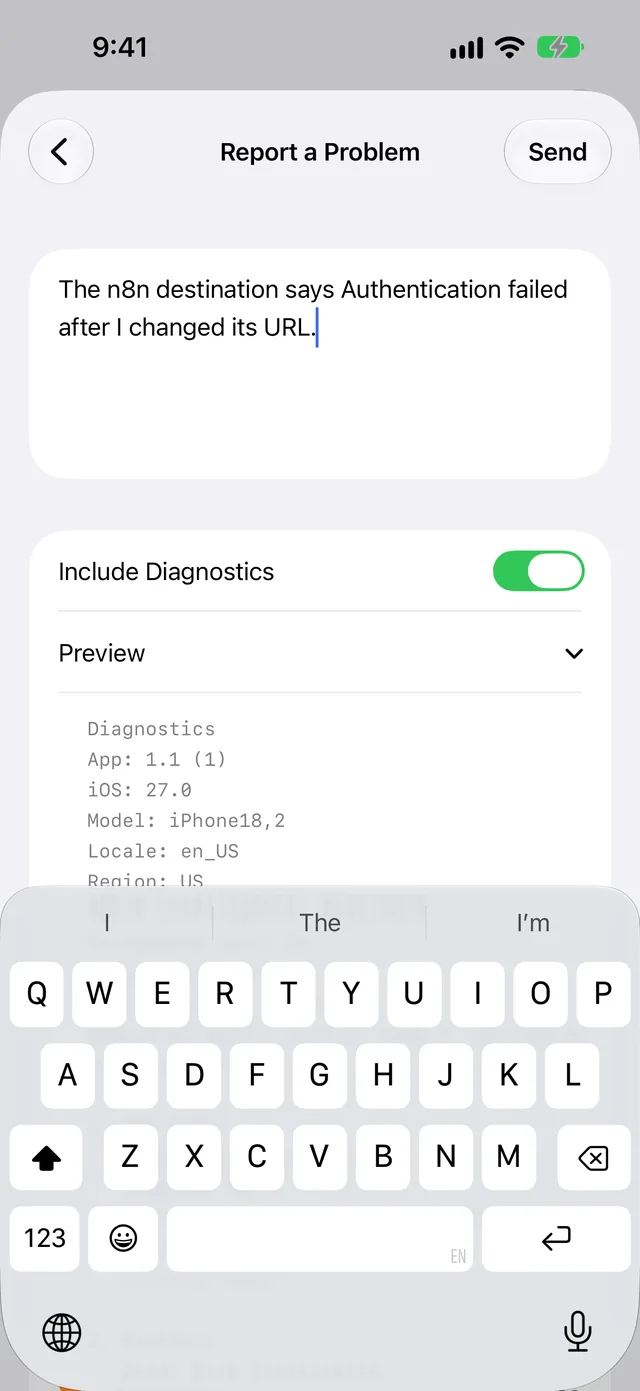
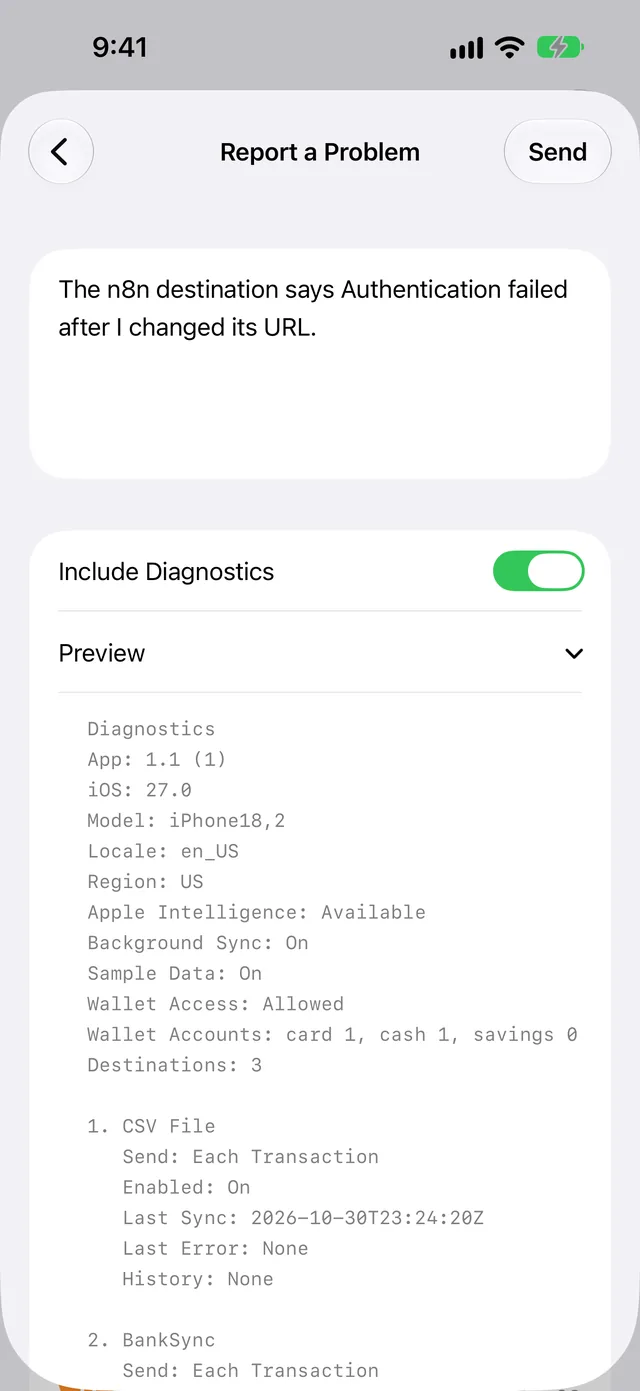
1.1: the consent message in the webhook guide, and Report a Problem without the keyboard

Changed region(s): [[0.0312, 0.6183, 0.9688, 1.0], [0.4688, 0.2164, 0.5, 0.2473]]

diff --git a/guides/apple-card-to-webhook/index.html b/guides/apple-card-to-webhook/index.html
@@ -177,6 +177,7 @@
 <li>
 <p>Tap <strong>Add</strong>.</p>
 <p>Result: WalletFeed shows <strong>Send Transactions to Your Server?</strong> with a message. The message tells you the data that your server will receive. The message also gives the Wallet accounts and the start date, or &quot;including earlier ones&quot; if <strong>Initial History</strong> is <strong>All</strong>.</p>
+<figure><img class="shot phone" src="walletfeed-consent.webp" alt="The message Send Transactions to Your Server? in WalletFeed, with the data that your server receives and the Cancel and Send buttons." width="320" height="695" loading="lazy" decoding="async"></figure>
 <p>If you tap <strong>Cancel</strong>, WalletFeed removes the new destination and does not send data.</p>
 </li>
 <li>

diff --git a/guides/apple-card-to-webhook/index.md b/guides/apple-card-to-webhook/index.md
@@ -114,6 +114,8 @@ WalletFeed sends a transaction again when the transaction changes. If the server
 
     Result: WalletFeed shows **Send Transactions to Your Server?** with a message. The message tells you the data that your server will receive. The message also gives the Wallet accounts and the start date, or "including earlier ones" if **Initial History** is **All**.
 
+    ![The message Send Transactions to Your Server? in WalletFeed, with the data that your server receives and the Cancel and Send buttons.](https://walletfeed.app/guides/apple-card-to-webhook/walletfeed-consent.webp)
+
     If you tap **Cancel**, WalletFeed removes the new destination and does not send data.
 16. Tap **Send**.
 

diff --git a/src/guides/apple-card-to-webhook.md b/src/guides/apple-card-to-webhook.md
@@ -123,6 +123,8 @@ WalletFeed sends a transaction again when the transaction changes. If the server
 
     Result: WalletFeed shows **Send Transactions to Your Server?** with a message. The message tells you the data that your server will receive. The message also gives the Wallet accounts and the start date, or "including earlier ones" if **Initial History** is **All**.
 
+    ![The message Send Transactions to Your Server? in WalletFeed, with the data that your server receives and the Cancel and Send buttons.](app:docs-consent)
+
     If you tap **Cancel**, WalletFeed removes the new destination and does not send data.
 16. Tap **Send**.
 
